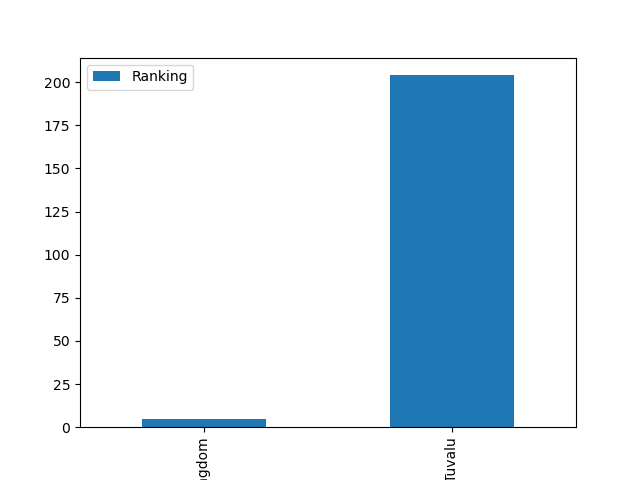
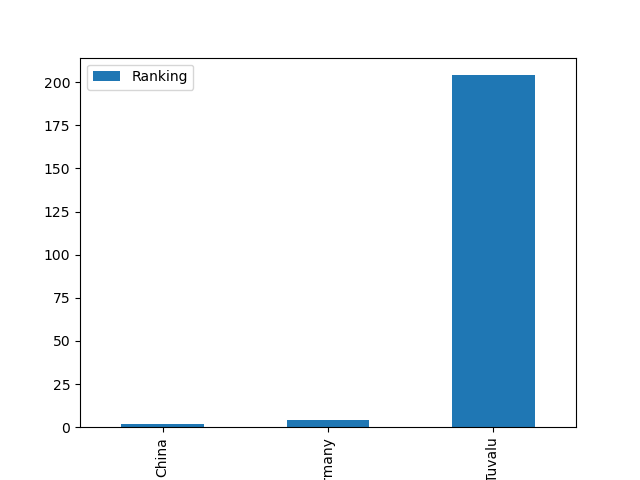
Changes

Changed region(s): [[0.1875, 0.1562, 0.7188, 1.0], [0.7812, 0.1562, 0.8438, 0.9062], [0.75, 0.9062, 0.7812, 1.0]]

diff --git a/ZivionFinalDSProject/templates/DataAnalyze2.html b/ZivionFinalDSProject/templates/DataAnalyze2.html
@@ -13,9 +13,10 @@
 
             div.transbox h {
                 margin: 1%;
+                text-align: center;
                 font-family: "Courier New", Courier, monospace;
                 color: #002333;
-                font-size: 40px;
+                font-size: 60px;
                 font-weight: 500;
             }
 
@@ -76,26 +77,34 @@
                margin: 10px;
            }
 
+           .x {
+               margin: 1%;
+                font-family: "Courier New", Courier, monospace;
+                color: #002333;
+                text-align: center;
+                font-size: 20px;
+                font-weight: 500;
+           }
     </style>
 </head>
 <body>
     <div class="transbox">
         <h>Data Analyze </h>
-        <img src="https://upload.wikimedia.org/wikipedia/commons/thumb/a/ad/Knowledge_transfer.svg/998px-Knowledge_transfer.svg.png" width="180" height="120" align="right">
+        <img src="https://d2jv9003bew7ag.cloudfront.net/uploads/Alec-Monopoly-3-Slider.jpg" width="400" height="200" align="right">
         <table width="200">
             <tr>
                 <td>
                     <x>Fifa</x>
                         {{ dataaa.to_html(classes="table table-striped") | safe}}
-                    </div>
-                </th>
+                </td>
                 <td>
                     <x>Knowlege Rating</x>
                     {{ data222.to_html(classes="table table-striped") | safe}}
                 </td>
             </tr>
-        </table>
-         <img src={{image2}} alt="my plot"><img />
+         </table>
+    <img src={{image2}} alt="my plot"><img />
+    <div class="x">The distance Between The Economy Rating And The FootBall Level Rating Is {{diffrence2}}. So  From This Country's Analyze We Can Claim That There {{answer2}} Connection Between High Economy And Fotball Level.</div>
     </div>
 </body>
 {% endblock %}j

diff --git a/ZivionFinalDSProject/templates/DataAnalyze1.html b/ZivionFinalDSProject/templates/DataAnalyze1.html
@@ -76,6 +76,15 @@
                margin: 10px;
            }
 
+           .x {
+               margin: 1%;
+                font-family: "Courier New", Courier, monospace;
+                color: #002333;
+                text-align: center;
+                font-size: 20px;
+                font-weight: 500;
+           }
+
     </style>
 </head>
 <body>
@@ -86,16 +95,16 @@
             <tr>
                 <td>
                     <x>Fifa</x>
-                        {{ dataaa.to_html(classes="table table-striped") | safe}}
-                    </div>
-                </th>
+                    {{ dataaa.to_html(classes="table table-striped") | safe}}
+                </td>
                 <td>
                     <x>Knowlege Rating</x>
                     {{ data111.to_html(classes="table table-striped") | safe}}
                 </td>
             </tr>
         </table>
-         <img src={{image1}} alt="my plot"><img />
+        <img src={{image1}} alt="my plot"><div class="x"></div><img />
+        <div class="x">The distance Between The Konwlege Rating And The FootBall Level Rating {{diffrence}}. So  From This Country's Analyze We Can Claim That There {{answer1}} Connection Between High Knowelege Level And Fotball Level.</div>
     </div>
 </body>
-{% endblock %}j
+{% endblock %}

diff --git a/ZivionFinalDSProject/templates/data2.html b/ZivionFinalDSProject/templates/data2.html
@@ -91,7 +91,7 @@
         <form method=post>
             <h>The Conection Between Soccer & Country's Financial status</h>
             <img src="https://images1.calcalist.co.il/PicServer2/20122005/491392/GETTY462563850835724.jpgL.jpg" width="458" height="300" align="right">
-            <p>Another common steriotype is that in poor coutries the soccer is more popular and the players there are better.</p>
+            <p>Another common steriotype is that in rich coutries the soccer is more popular and the players there are better.</p>
             <q>Is It True ?</q>
             <table width="200">
                 <tr>

diff --git a/ZivionFinalDSProject/templates/data1.html b/ZivionFinalDSProject/templates/data1.html
@@ -90,7 +90,7 @@
         <form method=post>
             <h>The Conection Between Soccer & Knowlege </h>
             <img src="https://upload.wikimedia.org/wikipedia/commons/thumb/a/ad/Knowledge_transfer.svg/998px-Knowledge_transfer.svg.png" width="180" height="120" align="right">
-            <p>Common steriotype is that soocer players and fans are stupid.</p>
+            <p>Common steriotype is that countries that have good education more succed at football.</p>
             <q>Are They?</q>
             <table width="200">
                 <tr>

diff --git a/ZivionFinalDSProject/views.py b/ZivionFinalDSProject/views.py
@@ -318,22 +318,30 @@ def data2():
     if (request.method == 'POST' and form.validate()):
         imagePath = "/static/content/output2.png"
         last2 = len(b)-1
-        bb = b.index[b['Name'] == form.name.data].tolist()
+        bb = b1.index[b1['Name'] == form.name.data].tolist()
         bbb = int(bb[0])
-        data222 = b.iloc[[0,bbb,last2][1:5]]
+        aa = a.index[a['name'] == form.name.data].tolist()
+        aaa = int(aa[0])
+        data222 = b.iloc[[1,bbb,last2]]
         plot = data222.plot(kind='bar',x='Name',y='Ranking')
         fig = plot.get_figure()
         fig.savefig("ZivionFinalDSProject" + imagePath)
-
+        diffrencee = abs(bbb-aaa)
+        if (diffrencee<25):
+            answerr = 'is'
+        else:
+            answerr = 'is not'
         return render_template(
         'DataAnalyze2.html', 
         year=datetime.now().year,
         form=form, 
         title='DataAnalyze2',
         repository_name='DataAnalyze2',
-        data222 = b.iloc[b1.index[b1['Name'] == form.name.data].tolist(), 1:4],
-        dataaa=a1.iloc[a.index[a['name'] == form.name.data].tolist()],
+        data222 = b.iloc[bb],
+        dataaa=a1.iloc[aa],
         image2 = imagePath,
+        answer2=answerr,
+        diffrence2 = diffrencee,
         )
        
             # Here you should put what to do (or were to go) if registration was good
@@ -388,21 +396,30 @@ def data1():
     if (request.method == 'POST' and form.validate()):
         imagePath = "/static/content/output1.png"
         last1 = len(x)-1
-        xx = x.index[x['name'] == form.name.data].tolist()
+        xx = x1.index[x1['name'] == form.name.data].tolist()
         xxx = int(xx[0])
+        aa = a.index[a['name'] == form.name.data].tolist()
+        aaa = int(aa[0])
         data111 = x.iloc[[0,xxx,last1]]
         plot = data111.plot.bar('name')
         fig = plot.get_figure()
         fig.savefig("ZivionFinalDSProject" + imagePath)
+        diffrence = abs(xxx-aaa)
+        if (diffrence<25):
+            answer = 'is'
+        else:
+            answer = 'is not'
         return render_template(
        'DataAnalyze1.html', 
         year=datetime.now().year,
         form=form, 
         title='DataAnalyze1',
         repository_name='DataAnalyze1',
-        data111 = x.iloc[x1.index[x1['name'] == form.name.data].tolist()],
-        dataaa=a1.iloc[a.index[a['name'] == form.name.data].tolist()],
+        data111 = x.iloc[xx],
+        dataaa=a1.iloc[aa],
         image1 = imagePath,
+        answer1 = answer,
+        diffrence = diffrence     
         )
 
     return render_template(
